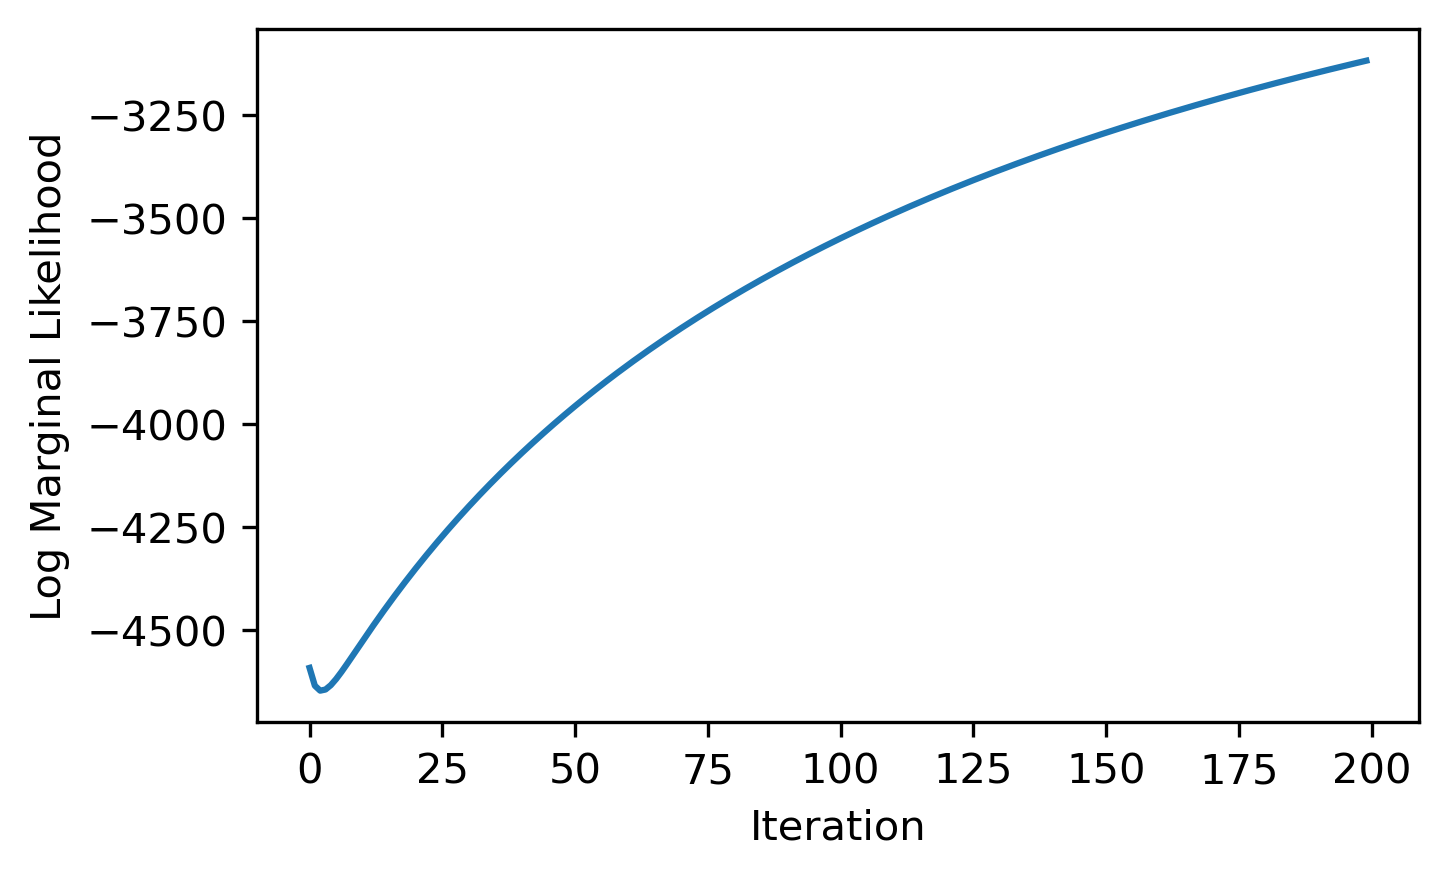
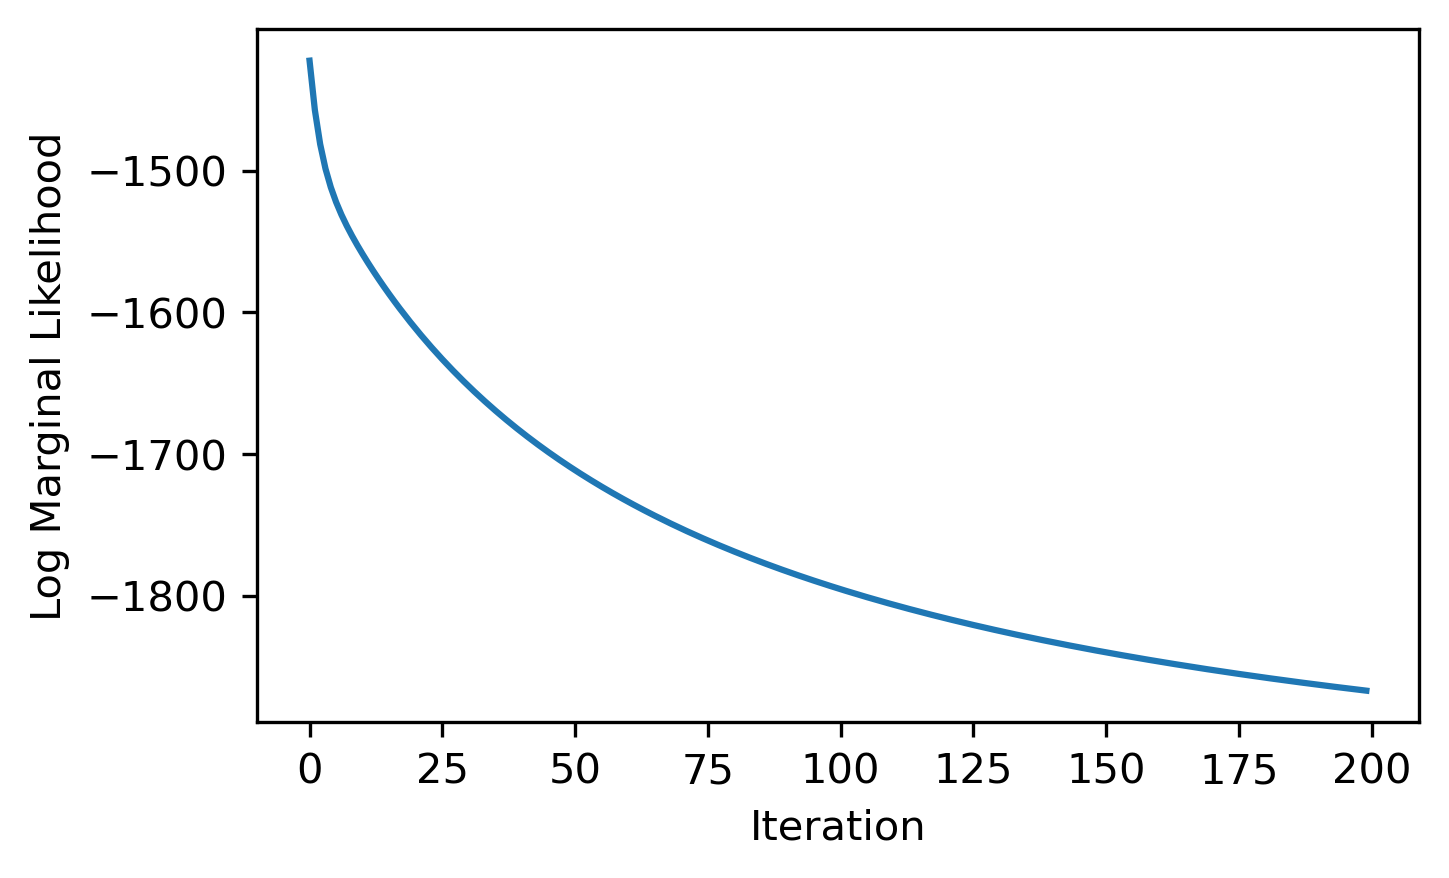
update

diff --git a/code/em_algorithm.py b/code/em_algorithm.py
@@ -54,19 +54,26 @@ class EMAlgorithm:
 
         ZTZZT = np.linalg.inv(Z.T @ Z) @ Z.T
         XTX = X.T @ X
+        XTy = X.T @ y
+        XTZ = X.T @ Z
+        yTy = y.T @ y
+        yTZ = y.T @ Z
+        ZTZ = Z.T @ Z
+        yTX = y.T @ X
+        ZTX = Z.T @ X
         
         for _ in tqdm(range(self.max_iter)): 
 
             # E-step
             Sigma = np.linalg.inv(XTX / sigma_e2 + np.eye(p) / sigma_b2)
-            mu = Sigma @ X.T @ (y - Z @ omega) / sigma_e2
+            mu = Sigma @ (XTy - XTZ @ omega) / sigma_e2
             E_beta = mu
             E_beta2 = Sigma + np.outer(mu.T, mu)
             
             # M-step
             omega_new = ZTZZT @ (y - X @ E_beta)
             sigma_b2_new = np.trace(E_beta2) / p
-            sigma_e2_new = ((y - Z @ omega_new).T @ (y - Z @ omega_new) + np.trace(XTX @ E_beta2) - 2 * (y - Z @ omega_new).T @ X @ E_beta) / n
+            sigma_e2_new = ((yTy - 2 * yTZ @ omega_new + omega_new.T @ ZTZ @ omega_new) + np.trace(XTX @ E_beta2) - 2 * (yTX @ E_beta - omega_new.T @ ZTX @ E_beta)) / n
             
             # print(omega_new)
             # print(sigma_b2_new)
@@ -87,8 +94,7 @@ class EMAlgorithm:
             print(Theta_new)
 
             # Compute marginal likelihood
-            log_marginal_likelihood = (-(n + p) / 2 - 2 / p) * np.log(2 * np.pi) - n / 2 * np.log(sigma_e2) - p / 2 * np.log(sigma_b2) - 1 / (2 * sigma_e2) * (y - Z @ omega).T @ (y - Z @ omega) + 1 / 2 * mu.T @ np.linalg.inv(Sigma) @ mu
-            # log_marginal_likelihood = (-(n + p) / 2 - 2 / p) * np.log(2 * np.pi) - n / 2 * np.log(sigma_e2) - p / 2 * np.log(sigma_b2) - 2 * np.log(np.linalg.det(Sigma)) - 1 / (2 * sigma_e2) * (y - Z @ omega).T @ (y - Z @ omega) + 1 / 2 * mu.T @ np.linalg.inv(Sigma) @ mu
+            log_marginal_likelihood = -n / 2 * np.log(2 * np.pi * sigma_e2) - 1 / (2 * sigma_e2) * (y - Z @ omega_new - X @ E_beta).T @ (y - Z @ omega_new - X @ E_beta)
             print(log_marginal_likelihood)
             log_marginal_likelihoods.append(log_marginal_likelihood)
 

diff --git a/main.py b/main.py
@@ -1,4 +1,5 @@
 import numpy as np
+from sklearn.linear_model import Ridge, ridge_regression
 from sklearn.metrics import mean_squared_error
 from code.cross_validation import cross_validate
 from code.em_algorithm import EMAlgorithm
@@ -25,15 +26,18 @@ def em_algorithm(y, Z, X, omega_init, sigma_b2_init, sigma_e2_init, max_iter=200
     y_test_pred = em.predict(Z_test, X_test)
     print('EM Test MSE:', mean_squared_error(y_test, y_test_pred))
 
-    # Cross validation
-    cv_mses = cross_validate(y, Z, X, EMAlgorithm, em_params, n_splits=cv_folds)
-
-    print('CV Mean MSE:', np.mean(cv_mses))
-    print('CV MSEs:', cv_mses)
-
-    np.save('outputs/em_cv_mses.npy', cv_mses)
-
+    # Plot marginal likelihood
     em.plot_marginal_likelihood('outputs/log_marginal_likelihoods.png')
+
+    # Cross validation
+    # cv_mses = cross_validate(y, Z, X, EMAlgorithm, em_params, n_splits=cv_folds)
+
+    # print('CV Mean MSE:', np.mean(cv_mses))
+    # print('CV MSEs:', cv_mses)
+
+    # np.save('outputs/em_cv_mses.npy', cv_mses)
+
+    
 
 def lasso(y, Z, X, cv_folds=10):
 
@@ -60,7 +64,7 @@ def lasso(y, Z, X, cv_folds=10):
 
 
 if __name__ == '__main__':
-    # y, Z, X = generate_data(n = 10000, c = 10, p = 5000, omega=[1, 2, 3, 1, 2, 3, 1, 2, 3, 1], sigma_b2 = 1, sigma_e2 = 1)
+    # y, Z, X = generate_data(n = 2000, c = 10, p = 500, omega=[1, 2, 3, 1, 2, 3, 1, 2, 3, 1], sigma_b2 = 1, sigma_e2 = 1)
     y, Z, X = load_data(path='data/lmm_y_z_x.txt')
 
     
@@ -68,5 +72,12 @@ if __name__ == '__main__':
     em_algorithm(y, Z, X, omega_init=np.zeros(10), sigma_b2_init=0.5, sigma_e2_init=0.5, max_iter=200, tol=1e-6, cv_folds=10)
 
     # lasso(y, Z, X, cv_folds=5)
+
+    # Ridge Regression
+    # X = np.hstack((Z, X))
+    # alpha = 0.01
+    # ridge = Ridge(alpha=alpha)
+    # ridge.fit(X, y)
+    # print(ridge.coef_[:10])
 
     

diff --git a/code/load_data.py b/code/load_data.py
@@ -1,8 +1,18 @@
 import numpy as np
+import pandas as pd
 
+
+def check_numpy_array(array):
+    array_pd = pd.DataFrame(array)
+    print(array_pd)
+    print(array_pd.describe())
 
 def load_data(path='lmm_y_z_x.txt'):
     data = np.loadtxt(path, delimiter='\t', skiprows=1)
+
+    # check_numpy_array(data)
+    # data = (data - np.mean(data, axis=0)) / np.std(data, axis=0)
+
     y = data[:, 0]
     Z = data[:, 1:11]
     X = data[:, 11:]
@@ -16,6 +26,8 @@ def generate_data(n=10000, c=10, p= 5000, omega=np.random.randn(10), sigma_b2 = 
 
     beta = np.random.normal(0, np.sqrt(sigma_b2), p)
     e = np.random.normal(0, np.sqrt(sigma_e2), n)
+
+    # print(beta)
 
     y = Z @ omega + X @ beta + e
 
